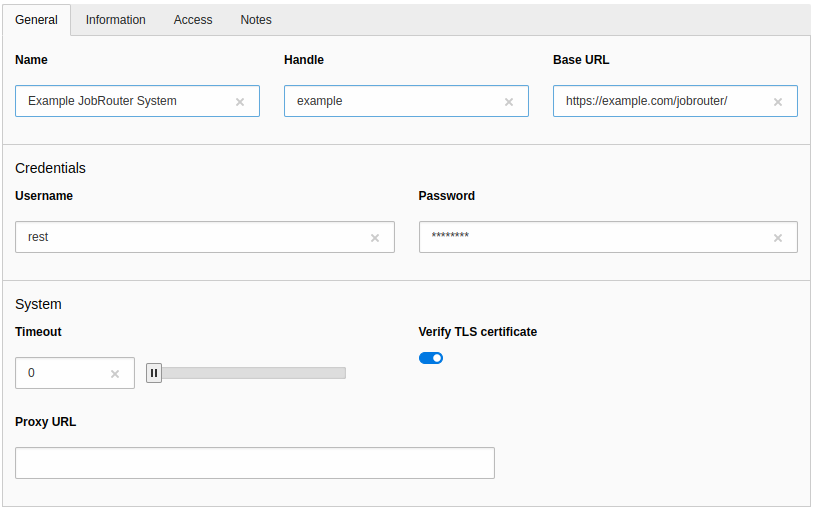
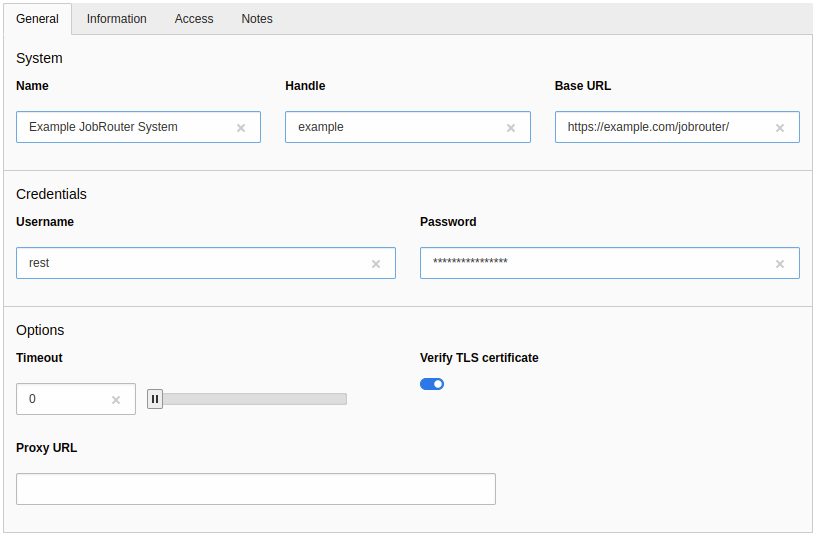
fix: adjust wrong/missing label for palettes in backend form

diff --git a/Documentation/Changelog/Index.rst b/Documentation/Changelog/Index.rst
@@ -11,6 +11,12 @@ and this project adheres to `Semantic Versioning <https://semver.org/spec/v2.0.0
 `Unreleased <https://github.com/jobrouter/typo3-connector/compare/v4.0.0...HEAD>`_
 --------------------------------------------------------------------------------------
 
+Fixed
+^^^^^
+
+
+* Wrong/missing label for palettes in backend form
+
 `4.0.0 <https://github.com/jobrouter/typo3-connector/compare/v3.0.1...v4.0.0>`_ - 2024-10-01
 ------------------------------------------------------------------------------------------------
 

diff --git a/CHANGELOG.md b/CHANGELOG.md
@@ -6,6 +6,9 @@ and this project adheres to [Semantic Versioning](https://semver.org/spec/v2.0.0
 
 ## [Unreleased]
 
+### Fixed
+- Wrong/missing label for palettes in backend form
+
 ## [4.0.0] - 2024-10-01
 
 ### Added
